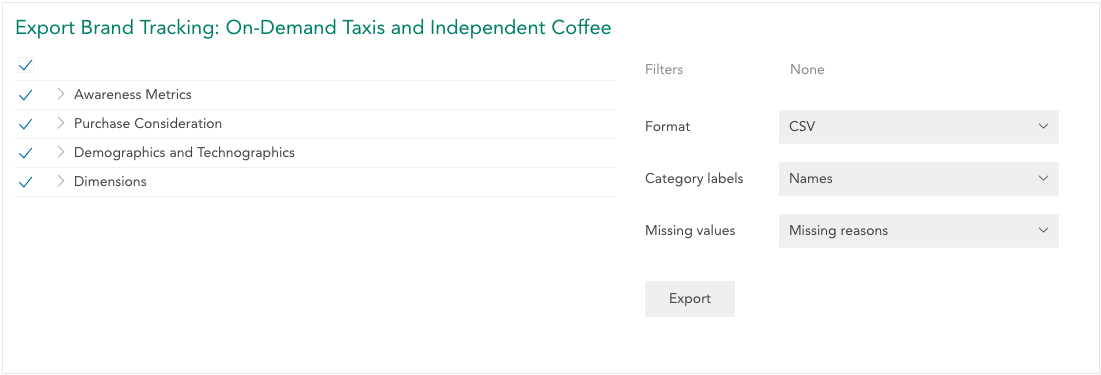
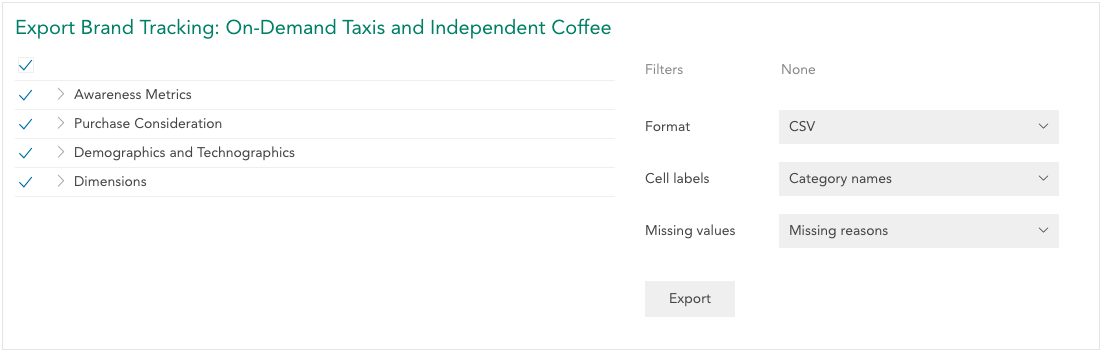
Document updated labels. Clean up and tighten language

diff --git a/_includes/custom/exporting-data.md b/_includes/custom/exporting-data.md
@@ -16,15 +16,15 @@ You can use the filter bar on the right side to export a filtered subset of rows
 
 #### CSV export options
 
-**Category Labels** – By default, category names will be exported to the CSV file. Change to **IDs** to have the numeric ID of the category exported instead.
+**Cell Labels** – How the category names will be exported for categorical variables. Select **Category names** to export category names; select **IDs** to export the numeric IDs categories.
 
-**Missing Values** – By default missing reasons will be used for missing category values. Set to **Blanks** to set missing values blank.
+**Missing Values** – What will be exported for missing values. Select **Missing Reason** to use the missing reason test; select **Blanks** to set missing values to an empty string; select **"." (Dot)** to set missing values to a dot.
 
 #### SPSS export options
 
-**Variable Labels** – By default, the variable description will be exported as the SPSS variable label. Select **Name** to export the variable name as the SPSS variable label instead.
+**Variable Labels** – What will be exported as the SPSS variable label. Set to **Description** to export the variable description; select **Name** to export the variable name.
 
-**Array Labels** – By default, array and multiple response subvariables will be exported with only their subvariable name. Select **Include array name** to have the array variable name prepended in the format **Array name /&#124; Subvariable name**.
+**Array Labels** – How array and multiple response subvariable names will be exported. Select **Independent** to export only the subvariable names; select **Include array name** to have the array variable name prepended in the format **Array name /&#124; Subvariable name**.
 
 ### Exporting
 
